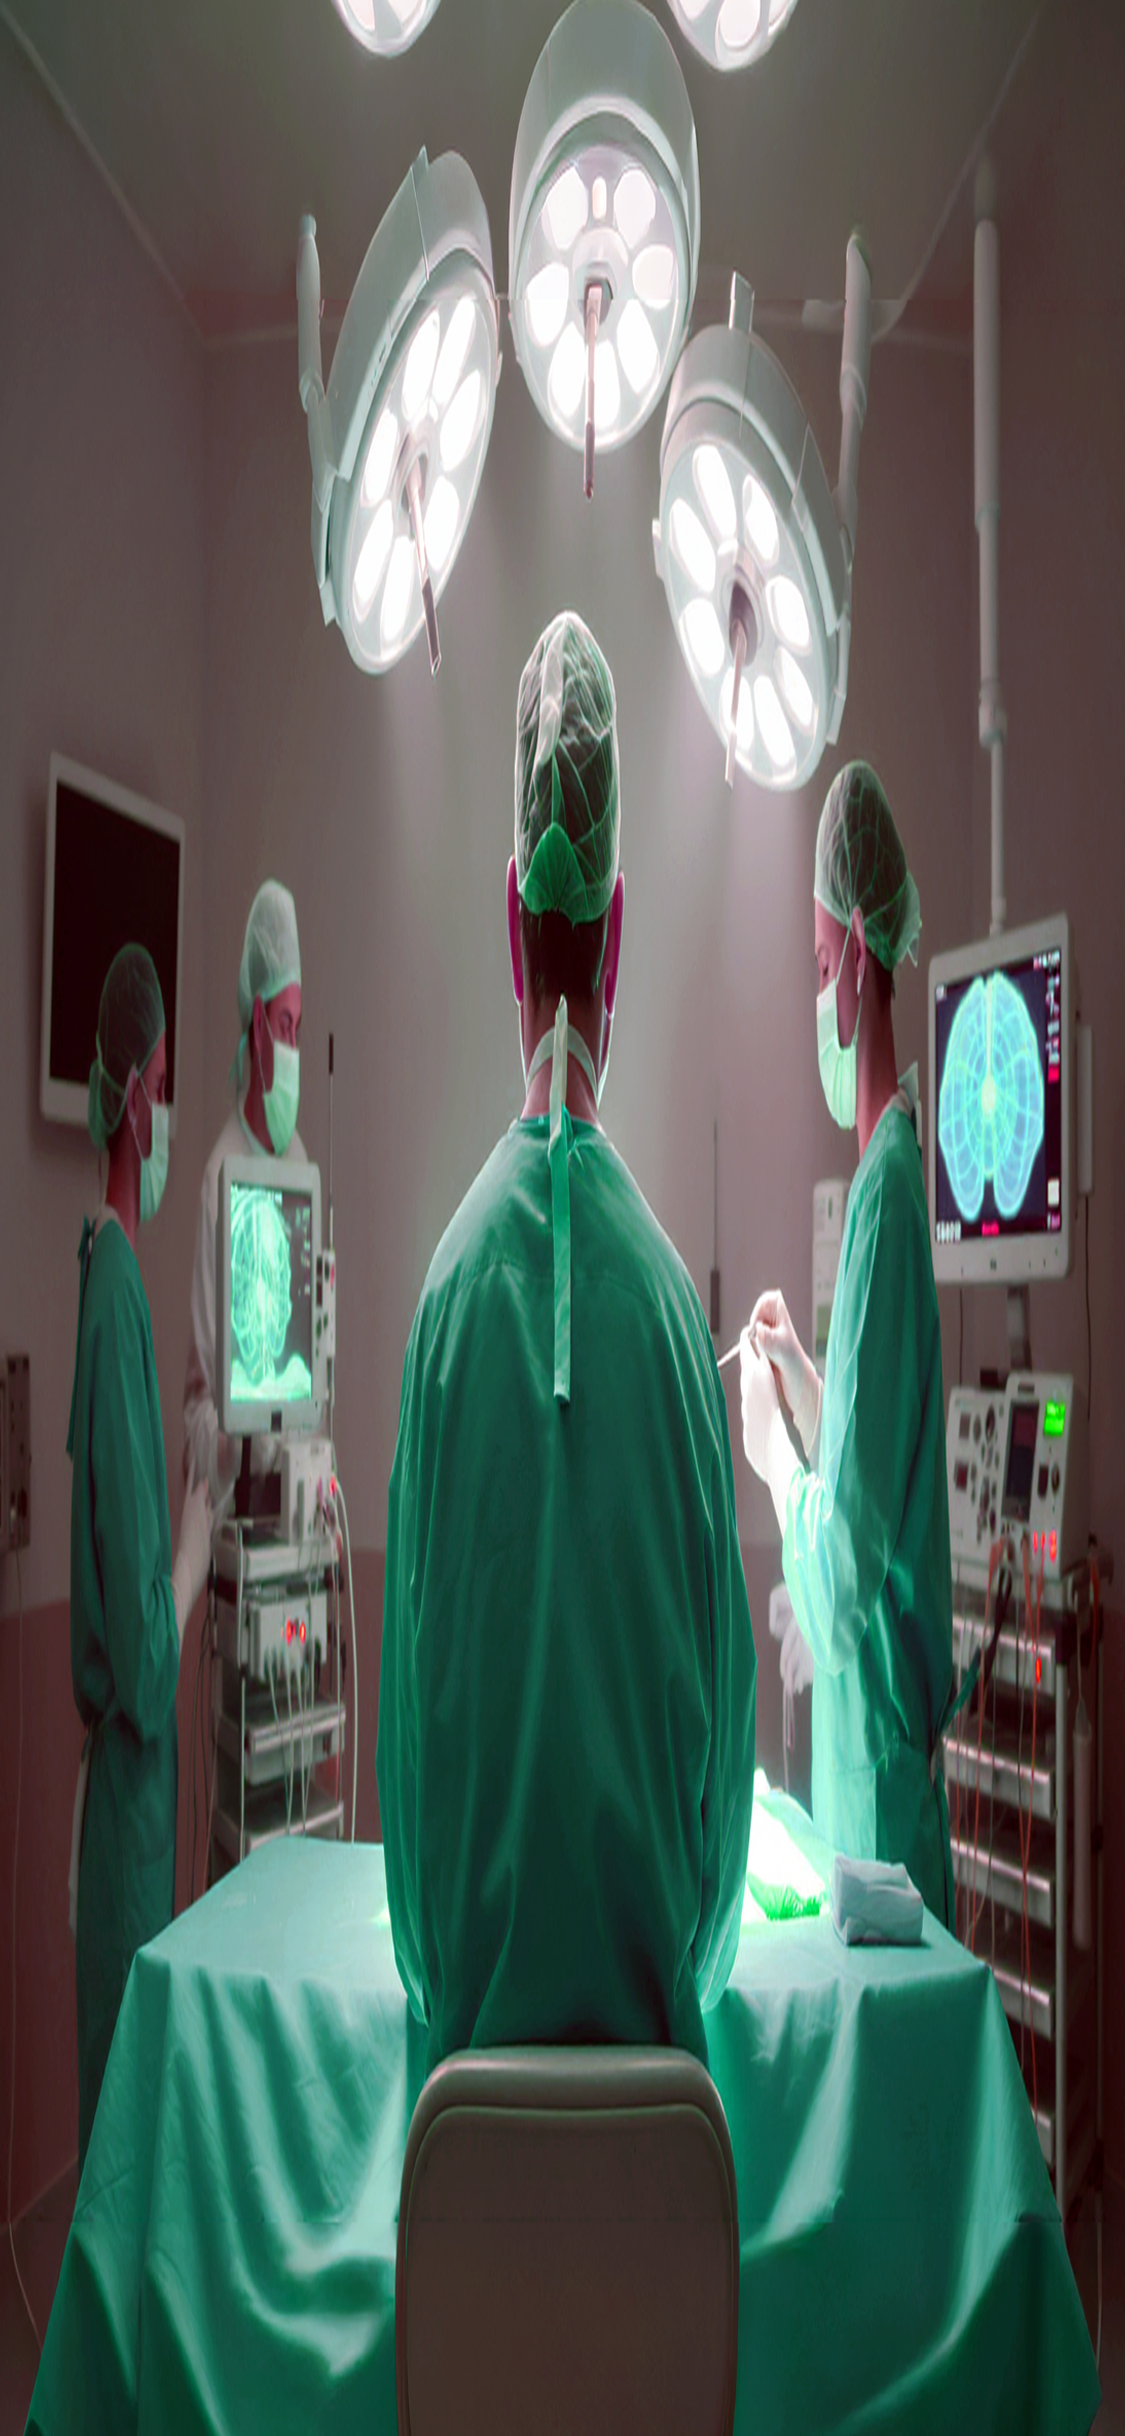
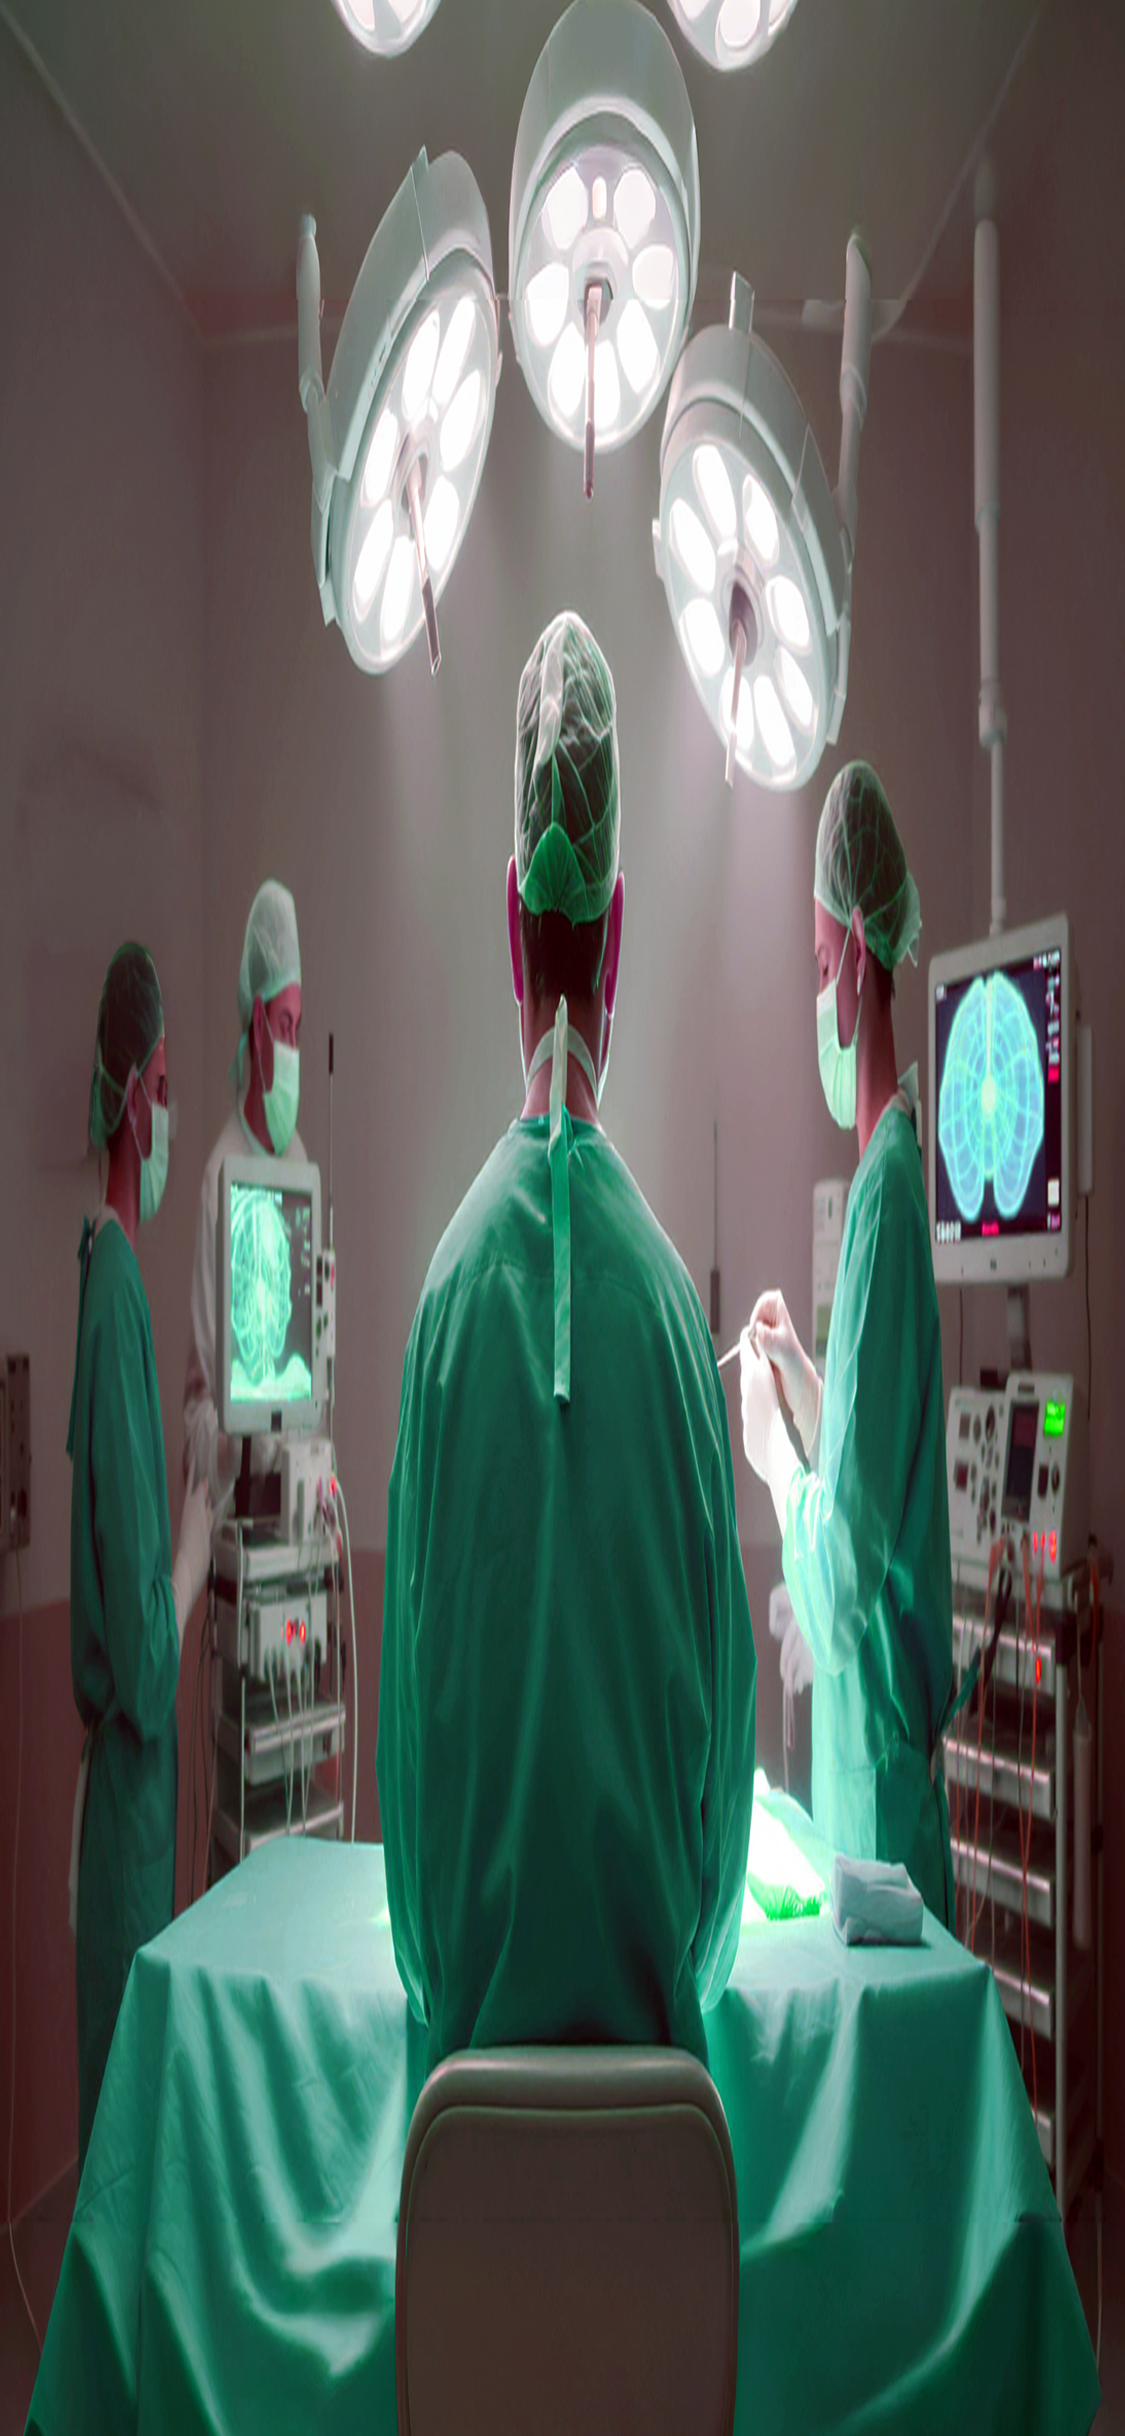
Update Equipment Hire card: animate setup images, change title to 'Break Out The Good Stuff'

Changed region(s): [[0.0, 0.312, 0.1867, 0.468]]

diff --git a/components/collection-strip.tsx b/components/collection-strip.tsx
@@ -24,13 +24,11 @@ const medicalServices: ServiceItem[] = [
     id: "precision-chain",
     name: "WORLD CLASS",
     images: [
-      "/precision_niopsy/Screenshot 2025-10-22 202621.png",
-      "/precision_niopsy/Screenshot 2025-10-22 202759.png",
-      "/precision_niopsy/Screenshot 2025-10-22 202806.png",
-      "/precision_niopsy/Screenshot 2025-10-22 202858.png",
-      "/precision_niopsy/Screenshot 2025-10-22 202924.png",
-      "/precision_niopsy/Screenshot 2025-10-22 203116.png",
-      "/precision_niopsy/Screenshot 2025-10-22 203142 - Copy.png",
+      "/tidy/pack/a.png",
+      "/tidy/pack/b.png",
+      "/tidy/pack/c.png",
+      "/tidy/pack/d.png",
+      "/tidy/pack/e.png",
     ],
     count: "End to End Chain of Precision",
     link: "/services",
@@ -54,10 +52,21 @@ const medicalServices: ServiceItem[] = [
   },
   {
     id: "equipment-hire",
-    name: "EQUIPMENT HIRE",
-    image: "/medical-equipment-installation.png",
-    count: "Break Out The Good Stuff → Check Out Our Kit",
+    name: "BREAK OUT THE GOOD STUFF",
+    images: [
+      "/tidy/setup/1.png",
+      "/tidy/setup/2.png",
+      "/tidy/setup/3.png",
+      "/tidy/setup/4.png",
+      "/tidy/setup/5.png",
+      "/tidy/setup/6.png",
+      "/tidy/setup/7.png",
+    ],
+    count: "Check Out Our Kit",
     link: "/about/equipment-services",
+    cycling: true,
+    boldTitle: true,
+    titleLines: ["BREAK OUT", "THE GOOD", "STUFF"],
   },
   {
     id: "focal-therapy-clinic",
@@ -210,7 +219,7 @@ export function CollectionStrip() {
                         src={service.image || "/placeholder.svg"}
                         alt={service.name}
                         fill
-                        className="object-cover"
+                        className="object-cover object-center"
                         sizes="320px"
                       />
                     )}
@@ -230,7 +239,7 @@ export function CollectionStrip() {
                             {(service.titleLines || service.name.split(' ')).map((line: string, idx: number, arr: string[]) => (
                               <div
                                 key={idx}
-                                className={idx === arr.length - 1 ? "text-7xl font-extrabold uppercase leading-none" : "text-6xl font-extrabold uppercase leading-none mb-1"}
+                                className={idx === arr.length - 1 ? "text-5xl font-extrabold uppercase leading-tight" : "text-4xl font-extrabold uppercase leading-tight mb-1"}
                                 style={{
                                   color: idx === arr.length - 1 ? '#059669' : '#047857',
                                   textShadow: idx === arr.length - 1 ? '2px 2px 6px rgba(0,0,0,0.5), 0 0 2px rgba(255,255,255,0.4)' : '2px 2px 4px rgba(0,0,0,0.4), 0 0 1px rgba(255,255,255,0.3)',
